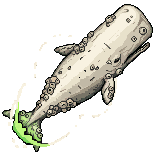
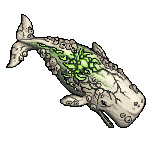
Mocha Dick: smoother 17-frame dive + readable surfacing
- Regenerated dive as a 17-frame clip (was 9) for a smoother plunge.
- Built the surface ("rise") by reversing the dive frames, so the whale
  visibly comes up the exact way it went down — a real, readable emerge
  instead of the old clip that read as a plain pop-in.
- Shortened the surface fade-in to 0.35s so the rise plays at full
  opacity; the motion, not an alpha fade, now sells the surfacing.
- dive/rise timing bumped to 16fps to match the extra frames.

diff --git a/Assets/Scripts/MochaDick.cs b/Assets/Scripts/MochaDick.cs
@@ -172,8 +172,8 @@ public class MochaDick : MonoBehaviour
         if (hp != null) hp.invulnerable = true;
         submerged = true;
         // Plunge clip: the whale arches and pitches under as it fades from view.
-        if (animator != null) animator.PlayOnce("MochaDick_dive_", 9, 11f);
-        yield return FadeAlpha(baseColor.a, 0f, 0.7f);
+        if (animator != null) animator.PlayOnce("MochaDick_dive_", 17, 16f);
+        yield return FadeAlpha(baseColor.a, 0f, 0.9f);
 
         var shadow = MakeShadow();
         Vector2 shPos = transform.position;
@@ -193,8 +193,9 @@ public class MochaDick : MonoBehaviour
         submerged = false;
         if (animator != null)
             animator.PlayOnce(breachSurface ? "MochaDick_breach_" : "MochaDick_rise_",
-                              breachSurface ? 7 : 9, breachSurface ? 12f : 11f);
-        yield return FadeAlpha(0f, baseColor.a, breachSurface ? 0.3f : 0.7f);
+                              breachSurface ? 7 : 17, breachSurface ? 12f : 16f);
+        // Short fade so the rise clip plays at full opacity (the motion, not a fade-in, sells the surfacing).
+        yield return FadeAlpha(0f, baseColor.a, breachSurface ? 0.3f : 0.35f);
 
         // Only the violent breach lands an AoE hit.
         if (breachSurface && player != null && Vector2.Distance(player.position, transform.position) < 3.5f)